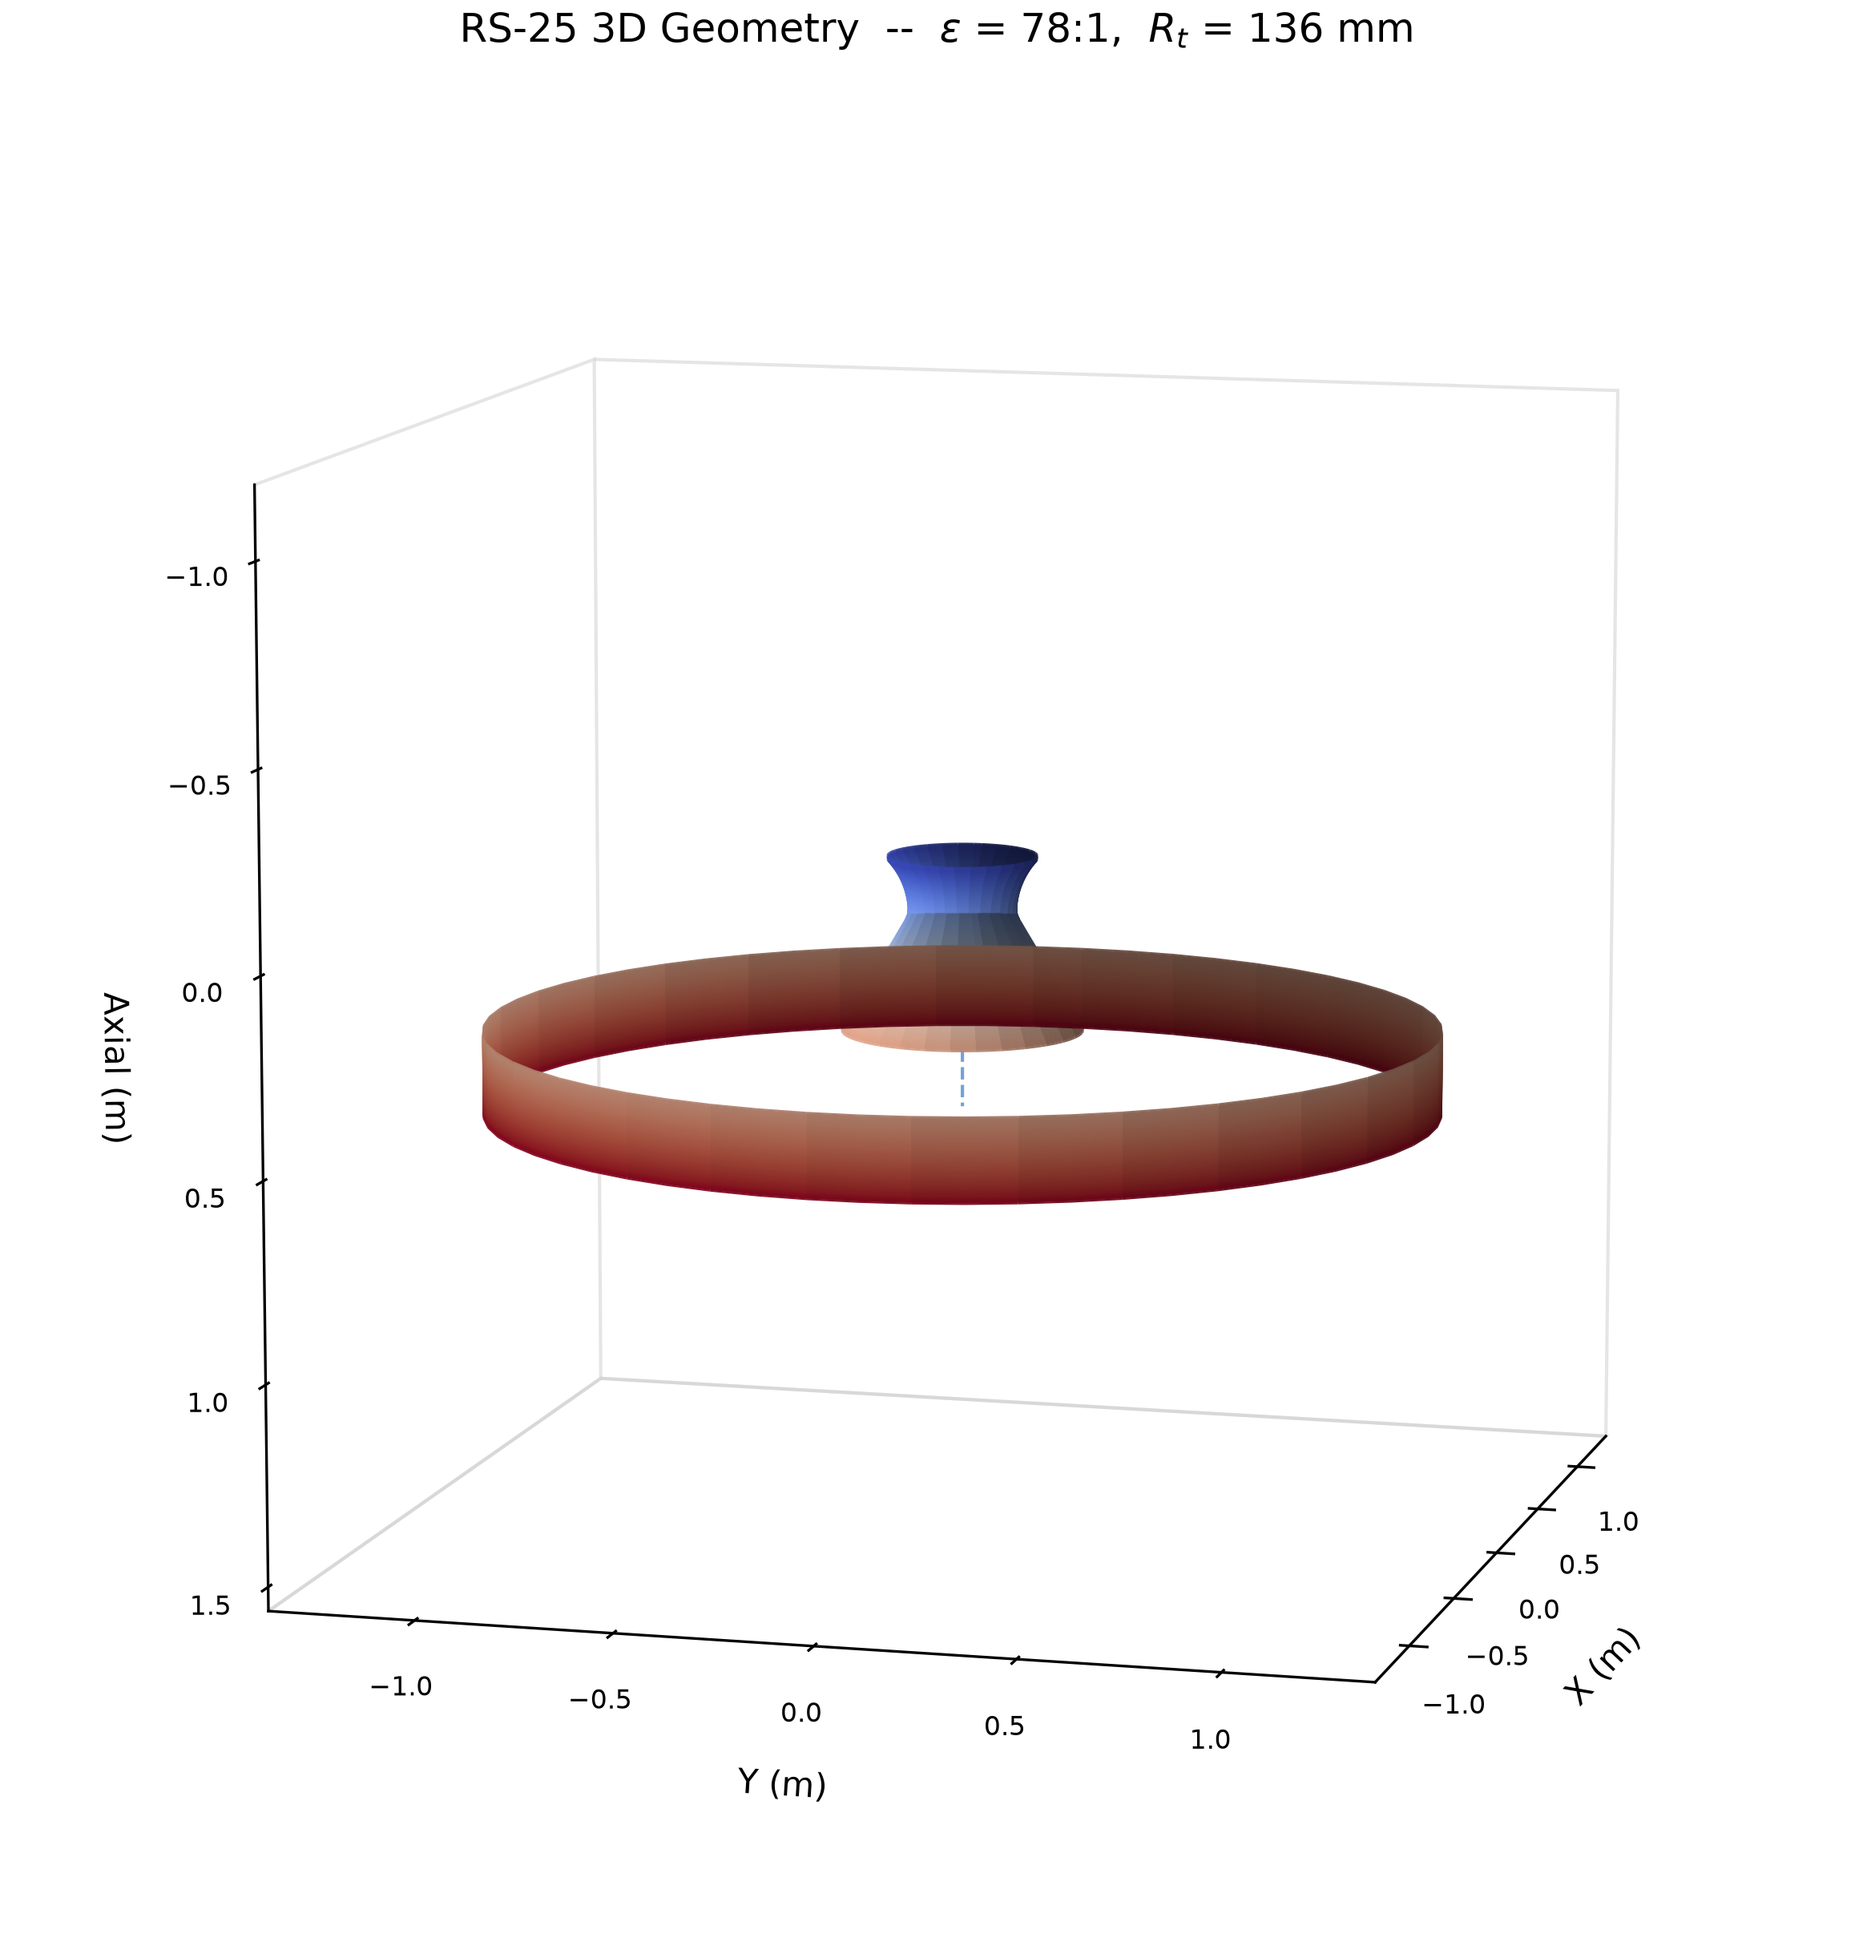
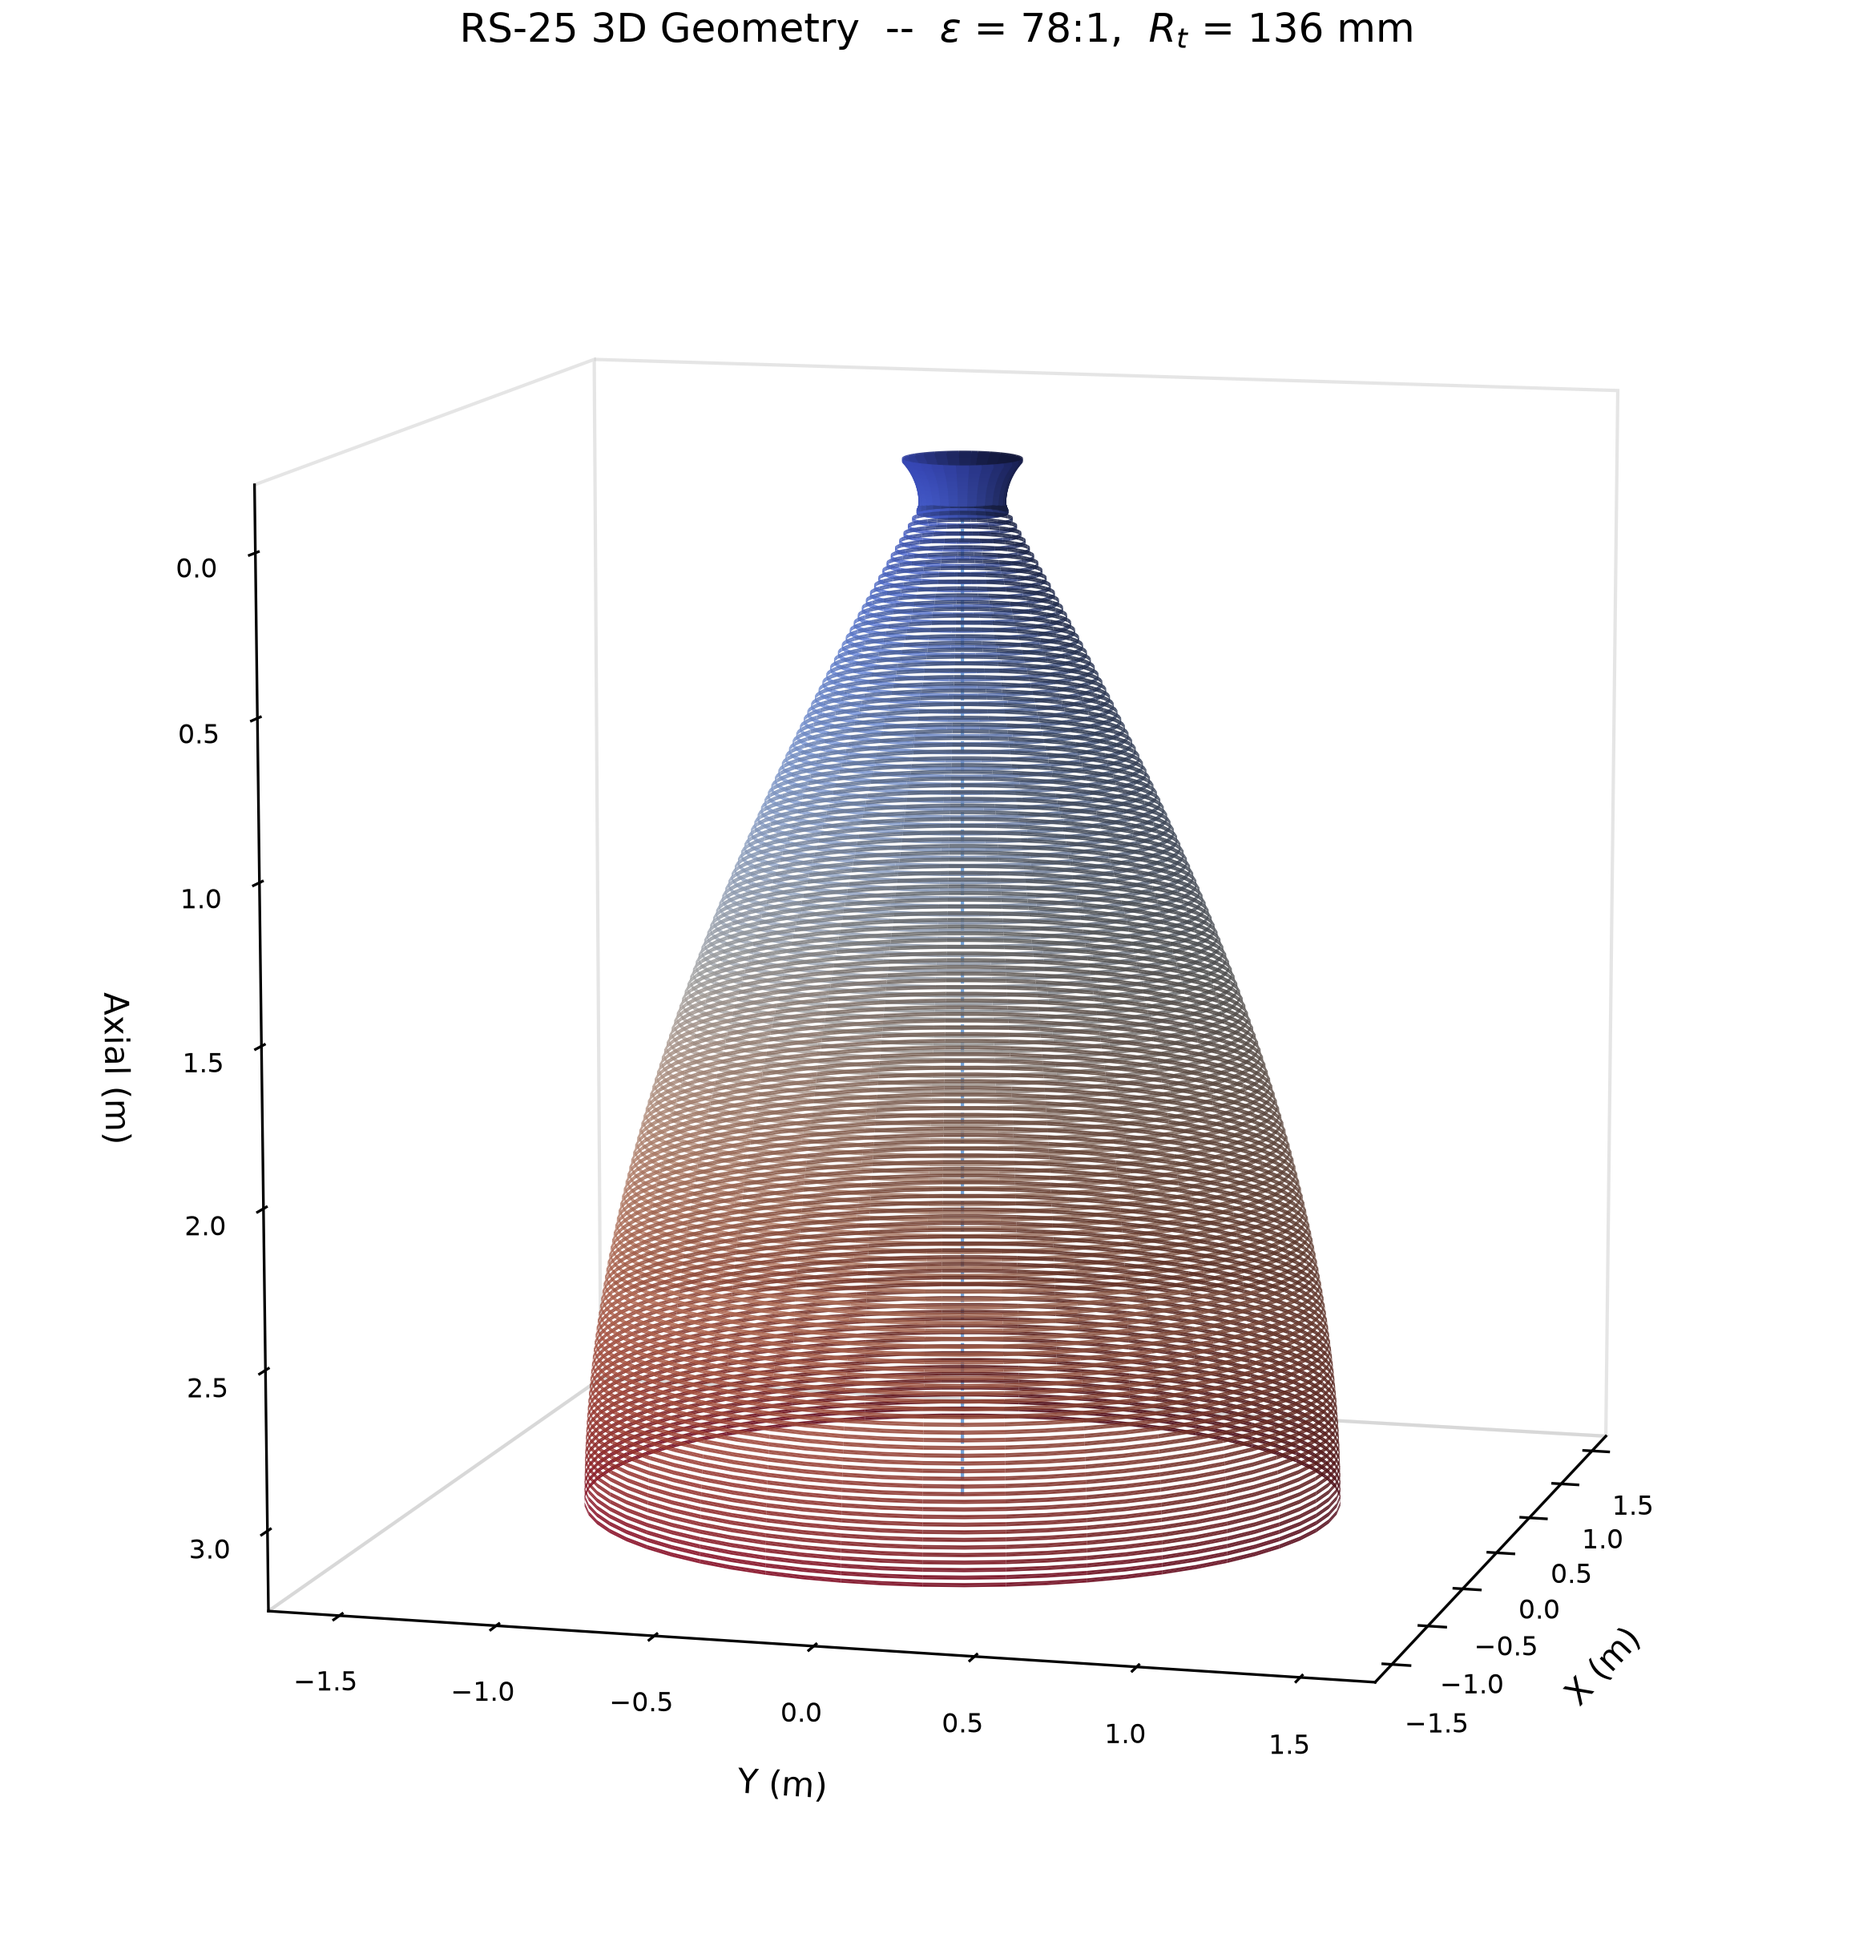
fix: use computed_diverging_length for RS-25/RL10B-2 geometry
- nozzle_config() now uses computed_diverging_length (Rao formula)
- RS-25: 0.5m -> 3.17m diverging length
- RL10B-2: 0.5m -> 3.65m diverging length
- Both now show proper curved bell shape

diff --git a/src/pipeline/engine_config.py b/src/pipeline/engine_config.py
@@ -82,10 +82,10 @@ class EngineConfig:
     def nozzle_config(self) -> NozzleConfig:
         """Build NozzleConfig from engine preset and overrides.
 
-        Uses preset's diverging_length when ld is None, otherwise uses ld override.
+        Uses preset's computed_diverging_length (Rao formula) when ld is None.
         """
         base = self.preset_fn()
-        ld = self.ld if self.ld is not None else base.diverging_length
+        ld = self.ld if self.ld is not None else base.computed_diverging_length
         return NozzleConfig(
             throat_radius=base.throat_radius,
             expansion_ratio=base.expansion_ratio,
